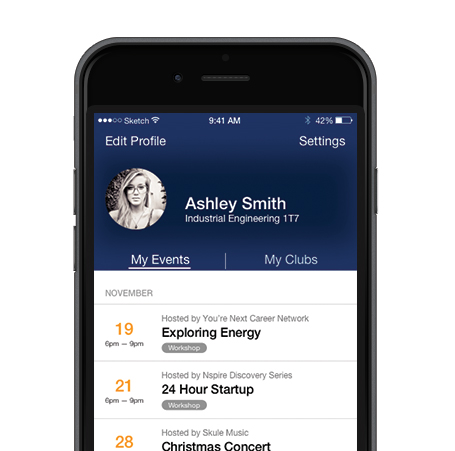
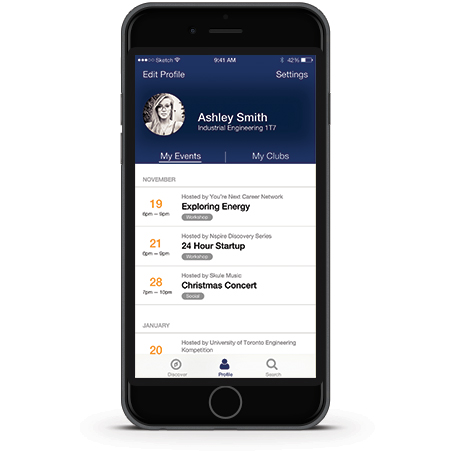
changed cover image for finder

diff --git a/index.html b/index.html
@@ -122,6 +122,15 @@
             <div class="row">
               <div class="col-12 col-sm-6 col-lg-2">
                 <figure id="piece-1" data-slide="1">
+                  <img class="thumb" class="img-responsive" src="assets/img/portfolio/finder.jpg" alt="">
+                  <figcaption>
+                    <p>Finder App Design</p>
+                    <a href="bc-android.html">view more</a>
+                  </figcatpion>
+                </figure>
+              </div>
+              <div class="col-12 col-sm-6 col-lg-2">
+                <figure id="piece-1" data-slide="1">
                   <img class="thumb" class="img-responsive" src="assets/img/portfolio/Android-Screen-mock.jpg" alt="">
                   <figcaption>
                     <p>Brit + Co. <br />Android App Redesign</p>
